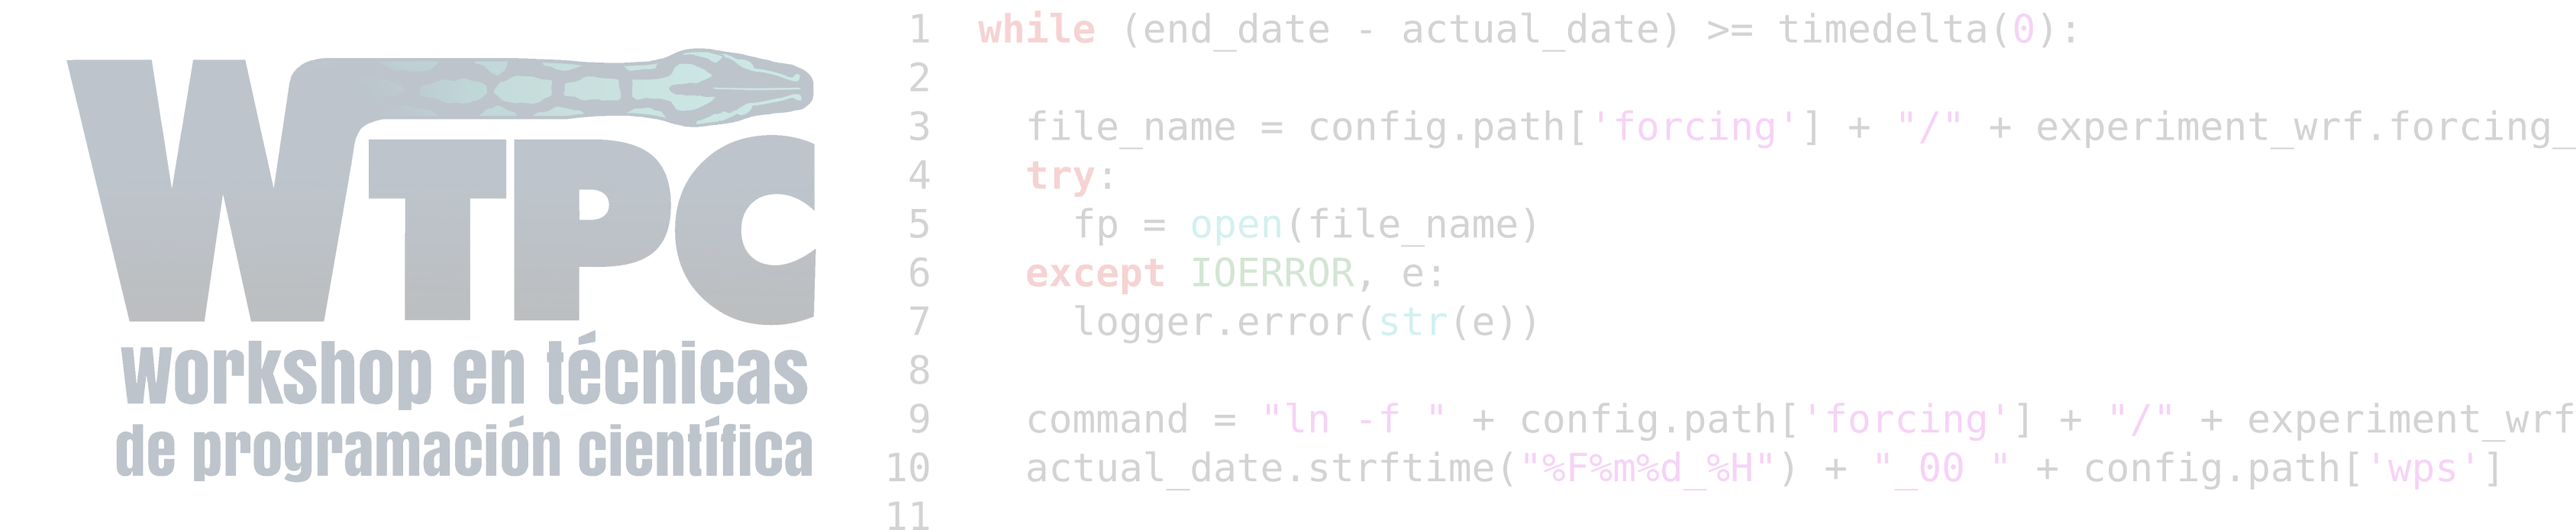
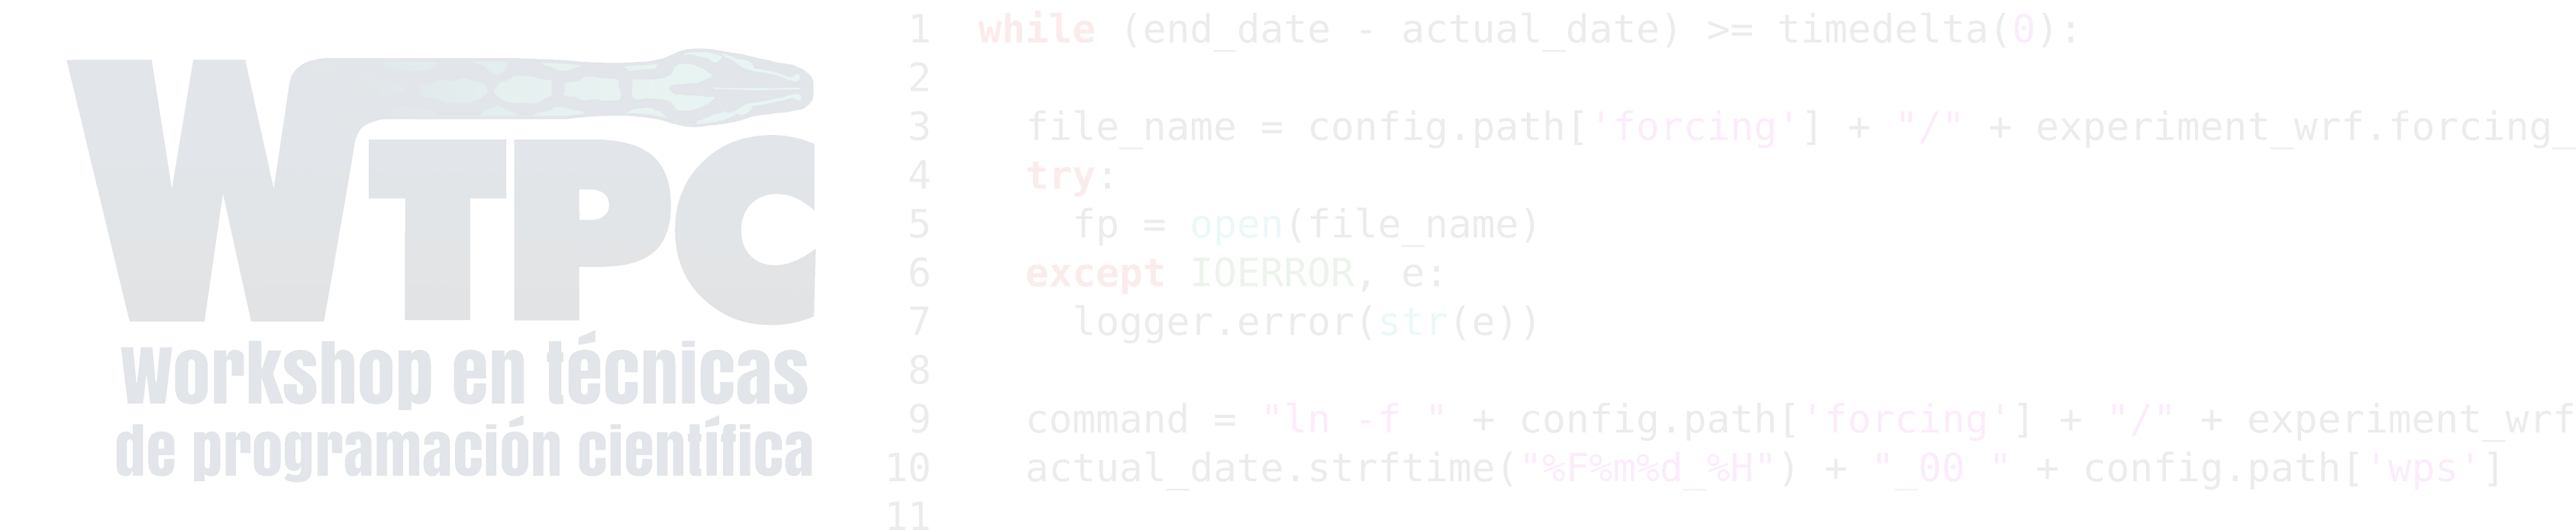
Arreglada paleta de colores y alineacion de texto. Imagen del header mas transparente.

diff --git a/css/clean-blog.css b/css/clean-blog.css
@@ -7,8 +7,10 @@
 body {
   font-family: 'Lora', 'Times New Roman', serif;
   font-size: 20px;
+  text-align: justify;
   color: #404040;
-  background: rgba(41,208,29,0.2);
+  background: rgba(67,229,120,0.3);
+  #background: rgba(41,208,29,0.2);
   #background: rgba(141,246,224,0.4);
 }
 p {
